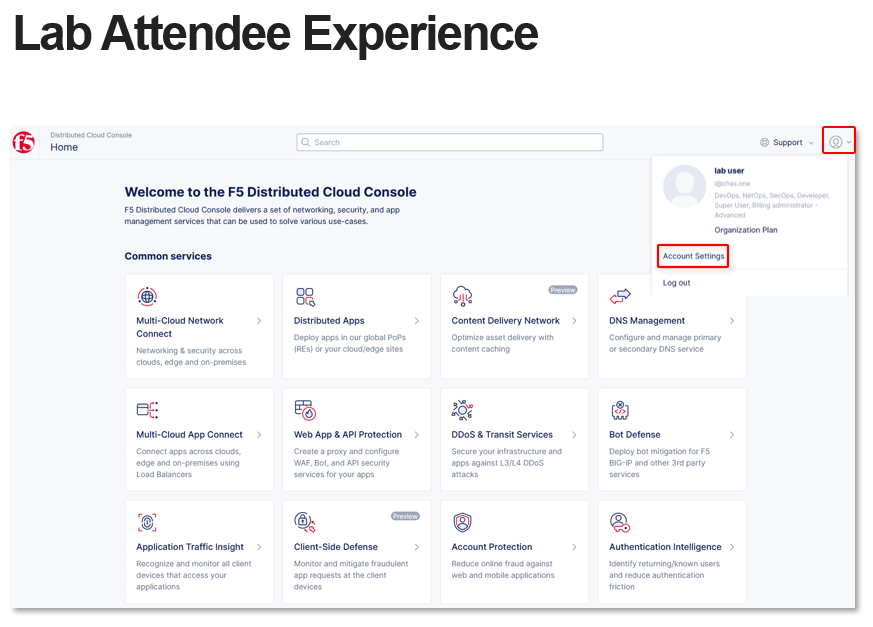
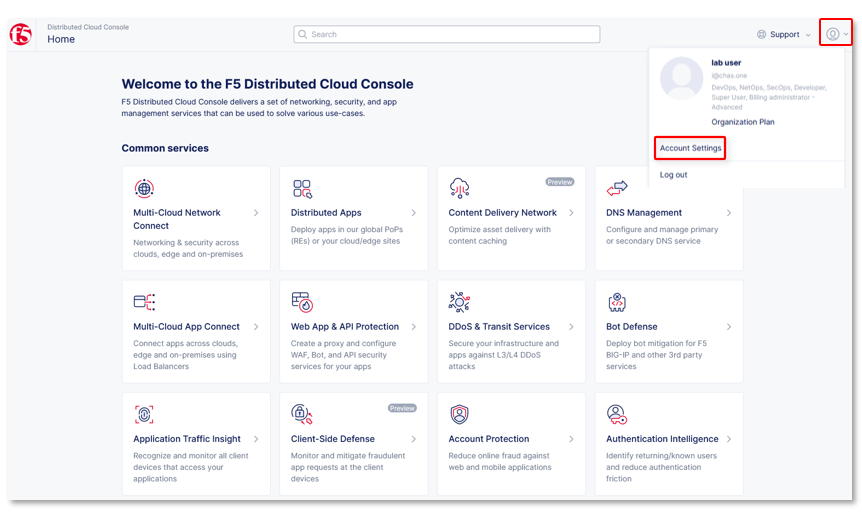
add steps for XC

diff --git a/docs/class9/lab2.rst b/docs/class9/lab2.rst
@@ -9,33 +9,141 @@ Please refer to the Tutorial in the GitHub repo (https://github.com/f5devcentral
 
 **Policy Supervisor** provides a graphical interface for visual policy creation, editing and management for traditional SecOps personas.
 
-Task 1: Export an existing BIG-IP WAF policy
-~~~~~~~~~~~~~~~~~~~~~~~~~~~~~~~~~~~~~~~~~~~~
+Task 1: Obtain an authentication token for your F5 Distributed Cloud tenant
+~~~~~~~~~~~~~~~~~~~~~~~~~~~~~~~~~~~~~~~~~~~~~~~~~~~~~~~~~~~~~~~~~~~~~~~~~~~
 
-Login to a BIG-IP appliance to export a WAF policy and save it to a workstation. 
+A valid F5 Distributed Cloud authentication token before it can be added as a provider.
 
+1- Browse to your Distributed Cloud console at **https://f5-xc-lab-mcn.console.ves.volterra.io/** and sign in to the **f5-xc-lab-mcn** domain using the ephemeral account credentials, as described in the introduction section of this lab guide.
 
-Task 2: Import an existing BIG-IP WAF policy into **Policy Supervisor**
-~~~~~~~~~~~~~~~~~~~~~~~~~~~~~~~~~~~~~~~~~~~~~~~~~~~~~~~~~~~~~~~~~~~~~~~
++----------------------------------------------+
+| .. image:: _static/tenantlogin2.png          |
+|    :width: 800px                             |
++----------------------------------------------+
 
-In **Policy Supervisor**, F5 WAF policies can be created, ingested from a connected *provider*, or imported in JSON format.
+2- Click **Sign In**
 
-1. Login to **Policy supervisor** and go to the *Policies* page.
++----------------------------------------------+
+| .. image:: _static/intro-006.png             |
+|    :width: 800px                             |
++----------------------------------------------+
 
-2. Click the **Import** button.
+3- Click your profile icon at the top right corner of the page and select **Account Settings**.
+
++----------------------------------------------+
+| .. image:: _static/XCToken.png               |
+|    :width: 800px                             |
++----------------------------------------------+
+
+4- Find and click on **Credentials** under the *Personal Management* section on the left side of the page.
+
++----------------------------------------------+
+| .. image:: _static/XCToken2.png              |
+|    :width: 800px                             |
++----------------------------------------------+
+
+5- Find and click on **Add Credentials**, fill in the fields as shown in the picture above and click **Generate**
+
++----------------------------------------------+
+| .. image:: _static/XCToken3.png              |
+|    :width: 800px                             |
++----------------------------------------------+
+
+6- Click **Copy** and save the token's value to a text file or notepad now. The token is required for the next task.
+
+7- Click **Done**
+
+Task 2: Create a new *Load Balancer* in your Distributed Cloud tenant/domain
+~~~~~~~~~~~~~~~~~~~~~~~~~~~~~~~~~~~~~~~~~~~~~~~~~~~~~~~~~~~~~~~~~~~~~~~~~~~~
+
+[insert steps to create a new simple load balancer... Should we use curl/API scripts to make it as easy and quick as possible?]
 
 Task 3: Create a new **Policy Supervisor** *Provider*
 ~~~~~~~~~~~~~~~~~~~~~~~~~~~~~~~~~~~~~~~~~~~~~~~~~~~~~
 
-1- Browse to the **Policy Supervisor** *Providers* page.
+1- Browse to the **Policy Supervisor** *Providers* page and login (login instructions can be found in the introduction section of this lab guide).
 
-2-
++----------------------------------------------+
+| .. image:: _static/PSProviderList.png        |
+|    :width: 800px                             |
++----------------------------------------------+
 
+2- Click **Add provider** 
 
-Task 3: Deploy an existing WAF policy to F5 Distributed Cloud
-~~~~~~~~~~~~~~~~~~~~~~~~~~~~~~~~~~~~~~~~~~~~~~~~~~~~~~~~~~~~~
++----------------------------------------------+
+| .. image:: _static/PSXCProvider1.png         |
+|    :width: 800px                             |
++----------------------------------------------+
 
-1- Deploy a WAF policy that was ingested from a BIG-IP.
+3- Select **Distributed Cloud** for the *Provider Type* and click **+ Add secret**
 
-2- Deploy a WAF policy that was imported from a BIG-IP.
++----------------------------------------------+
+| .. image:: _static/PSXCProvider2.png         |
+|    :width: 800px                             |
++----------------------------------------------+
+
+4- Enter a name, paste the value of the Distributed Cloud token obtained in Task 1 above, and click **Create**
+
++----------------------------------------------+
+| .. image:: _static/PSXCProvider3.png         |
+|    :width: 800px                             |
++----------------------------------------------+
+
+5- Select this newly created secret and click **Continue**
+
++----------------------------------------------+
+| .. image:: _static/PSXCProvider4.png         |
+|    :width: 800px                             |
++----------------------------------------------+
+
+6- Enter a name for this provider (*for example:* **Distributed Cloud**), type or paste the URL for your Distributed Cloud domain/tenant (for the ephemeral credentails automatically created for this lab: **https://f5-xc-lab-mcn.console.ves.volterra.io**), and click **Test Connection**
+
++----------------------------------------------+
+| .. image:: _static/PSXCProvider5.png         |
+|    :width: 800px                             |
++----------------------------------------------+
+
+7- Wait for the test to complete. Click **Go to overview** to return to the Providers Overview page.
+
+Task 4: Deploy an existing WAF policy to an existing *F5 Distributed Cloud Load Balancer*
+~~~~~~~~~~~~~~~~~~~~~~~~~~~~~~~~~~~~~~~~~~~~~~~~~~~~~~~~~~~~~~~~~~~~~~~~~~~~~~~~~~~~~~~~~
+
+Now that Distribured Cloud is configured as a Provider, **Policy Supervisor** can deploy WAF policies to any **Load Balancer** defined in your tenant/domain.
+
+1- In **Policy Supervisor**, browse to the **Policies** page.
+
++----------------------------------------------+
+| .. image:: _static/PSDeploy1.png             |
+|    :width: 800px                             |
++----------------------------------------------+
++----------------------------------------------+
+| .. image:: _static/PSDeploy2.png             |
+|    :width: 800px                             |
++----------------------------------------------+
+
+2- Locate and click on the **Deploy** button for the policy you wish to deploy.
+
++----------------------------------------------+
+| .. image:: _static/PSXCDeploy3.png           |
+|    :width: 800px                             |
++----------------------------------------------+
+
+3- Select the **Distribured Cloud** *Provider* configured in the previous task, enter the required note in the text box, and click **Conversion Summary**.
+
++----------------------------------------------+
+| .. image:: _static/PSXCDeploy4.png           |
+|    :width: 800px                             |
++----------------------------------------------+
+
+4- Wait for the conversion process to complete and click **Save & Continue** and click **Continue Deployment**.
+
++----------------------------------------------+
+| .. image:: _static/PSXCDeploy5.png           |
+|    :width: 800px                             |
++----------------------------------------------+
+
+5- Select the Distributed Cloud **Load Balancer** where the policy is to be deployed/attached.
+
+Task 5: Confirm that the WAF policy was deployed as expected
+~~~~~~~~~~~~~~~~~~~~~~~~~~~~~~~~~~~~~~~~~~~~~~~~~~~~~~~~~~~~
 

diff --git a/docs/class9/lab1.rst b/docs/class9/lab1.rst
@@ -304,7 +304,7 @@ a **Policy Supervisor** agent is not possible or when the BIG-IP appliance canno
 2. Find **bigip1** under F5 Products and click its **ACCESS** link to see a list of access options.
 
 +----------------------------------------------+
-| .. image:: _static/UDFTMUI.png               |
+| .. image:: _static/UDFTMUI1.png              |
 |    :width: 800px                             |
 +----------------------------------------------+
 
@@ -346,7 +346,7 @@ a **Policy Supervisor** agent is not possible or when the BIG-IP appliance canno
 8. Click the **OK** button and wait a few momemts for the export process to complete.
 
 +----------------------------------------------+
-| .. image:: _static/BIGIPExport2.png          |
+| .. image:: _static/BIGIPExport3.png          |
 |    :width: 800px                             |
 +----------------------------------------------+
 
@@ -396,8 +396,9 @@ a **Policy Supervisor** agent is not possible or when the BIG-IP appliance canno
 |    :width: 800px                             |
 +----------------------------------------------+
 
-The screenshot above shows two WAF policies: one that was just imported in the steps above
-and the other was previously imported using the *Ingest* method.
+The imported WAF policy will be listed on the *Policies Overview* page as shown in
+the screenshot image above, which shows two WAF policies: one that was just imported
+in the steps above and the other was previously imported using the *Ingest* method.
 
 Task 7: Deploy a WAF policy to a BIG-IP
 ~~~~~~~~~~~~~~~~~~~~~~~~~~~~~~~~~~~~~~~
@@ -412,14 +413,14 @@ Task 7: Deploy a WAF policy to a BIG-IP
 |    :width: 800px                             |
 +----------------------------------------------+
 
-8. Select a policy then find and click on the **Deploy** button.
+2. Select a policy then find and click on the **Deploy** button.
 
 +----------------------------------------------+
 | .. image:: _static/PSDeploy3.png             |
 |    :width: 800px                             |
 +----------------------------------------------+
 
-9. Select **bigip2** option from the **Provider** optinos and type **"Deploy to bigip2"** in the mandatory commit
+3. Select **bigip2** option from the **Provider** options and type **"Deploy to bigip2"** in the mandatory commit
    message text box and click the **Conversion Summary** button.
 
 +----------------------------------------------+
@@ -427,35 +428,35 @@ Task 7: Deploy a WAF policy to a BIG-IP
 |    :width: 800px                             |
 +----------------------------------------------+
 
-10. Wait for the Conversion Summary screen to appear.
+4. Wait for the Conversion Summary screen to appear.
 
 +----------------------------------------------+
 | .. image:: _static/PSDeploy5.png             |
 |    :width: 800px                             |
 +----------------------------------------------+
 
-11. Click the **Save & Continue** button.
+5. Click the **Save & Continue** button.
 
 +----------------------------------------------+
 | .. image:: _static/PSDeploy6.png             |
 |    :width: 800px                             |
 +----------------------------------------------+
 
-12. Click the **Continue Deployment** button on the *Conversion Report* screen that appears.
+6. Click the **Continue Deployment** button on the *Conversion Report* screen that appears.
 
 +----------------------------------------------+
 | .. image:: _static/PSDeploy7.png             |
 |    :width: 800px                             |
 +----------------------------------------------+
 
-13. Select the **web_app** virtual server from the dropdown list and click the **Next** button.
+7. Select the **web_app** virtual server from the dropdown list and click the **Next** button.
 
 +----------------------------------------------+
 | .. image:: _static/PSDeploy7b.png            |
 |    :width: 800px                             |
 +----------------------------------------------+
 
-14. Click the **Deploy** button.
+8. Click the **Deploy** button.
 
 +----------------------------------------------+
 | .. image:: _static/PSDeploy8.png             |
@@ -465,17 +466,17 @@ Task 7: Deploy a WAF policy to a BIG-IP
 |    :width: 800px                             |
 +----------------------------------------------+
 
-15. Wait for the deployment to successfully complete and click the **Back to Overview** button.
+9. Wait for the deployment to successfully complete. and click the **Back to Overview** button.
 
 +----------------------------------------------+
-| .. image:: _static/PSDeploy10.png            |
+| .. image:: _static/PSImport5.png             |
 |    :width: 800px                             |
 +----------------------------------------------+
 
 Task 8: Confirm successful deployment of the WAF policy on BIG-IP2
 ~~~~~~~~~~~~~~~~~~~~~~~~~~~~~~~~~~~~~~~~~~~~~~~~~~~~~~~~~~~~~~~~~~
 
-.. NOTE:: The password for the admin account on your BIG-IP appliances is set to **Canada123!**.
+.. NOTE:: The password for the admin account on your BIG-IP appliances is set to **Canada123!**
 
 
 1. Browse to https://udf.f5.com again and find the **Deployment** tab to see your virtual machines.
@@ -487,7 +488,7 @@ Task 8: Confirm successful deployment of the WAF policy on BIG-IP2
 2. Find **bigip2** under F5 Products and click its **ACCESS** link to see a list of access options.
 
 +----------------------------------------------+
-| .. image:: _static/UDFTMUI.png               |
+| .. image:: _static/UDFTMUI2.png              |
 |    :width: 800px                             |
 +----------------------------------------------+
 
